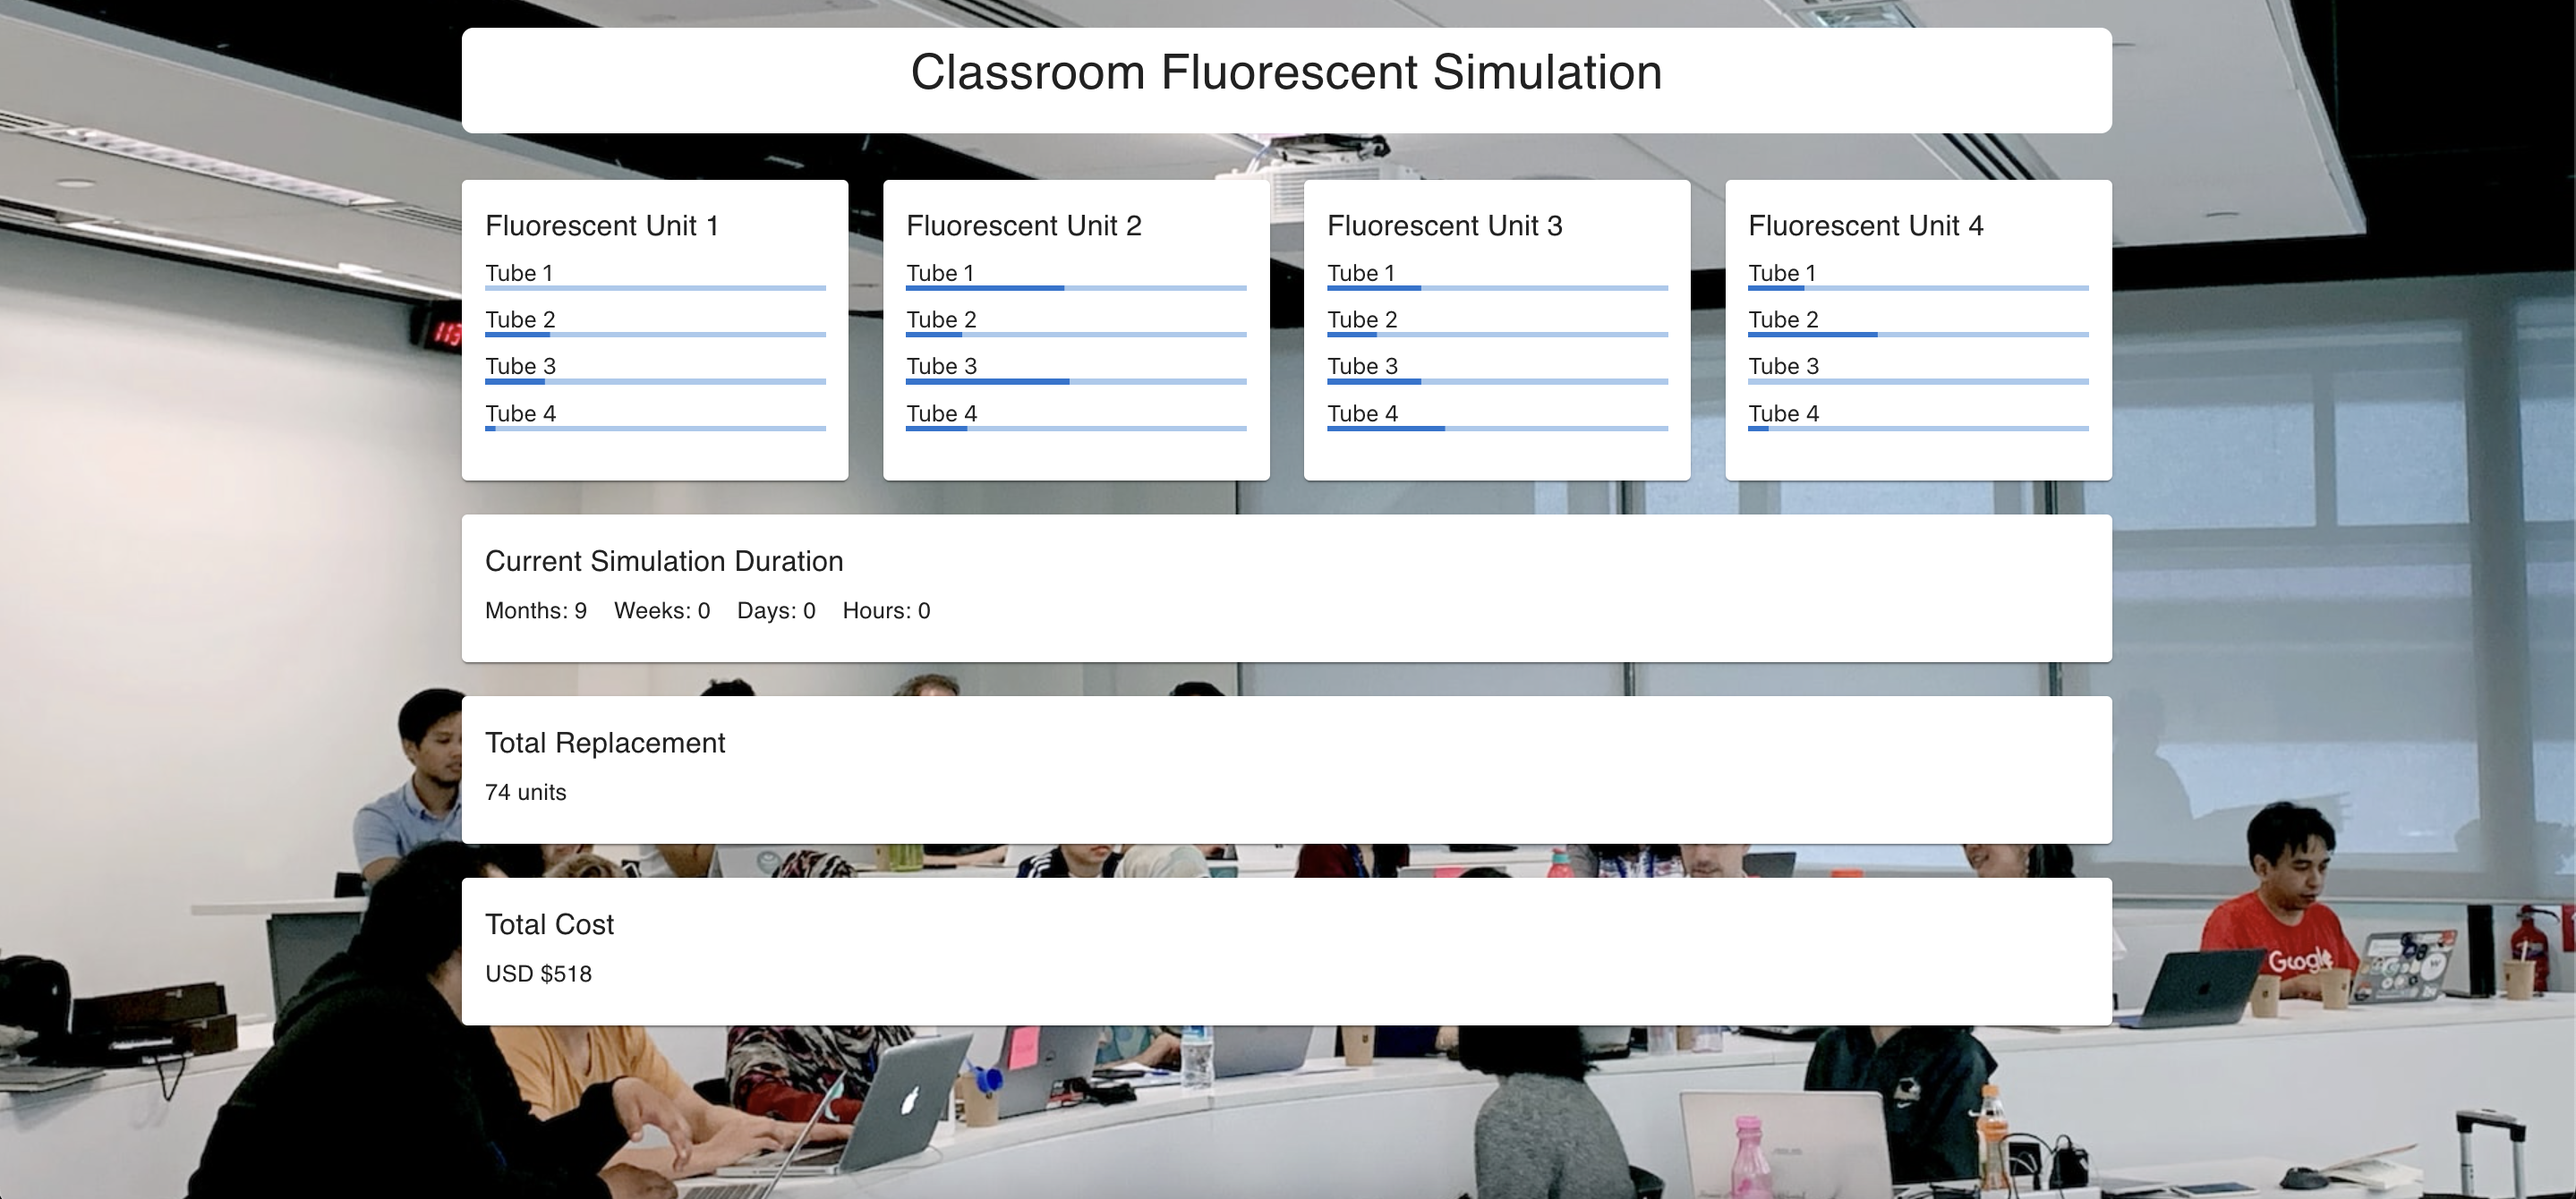
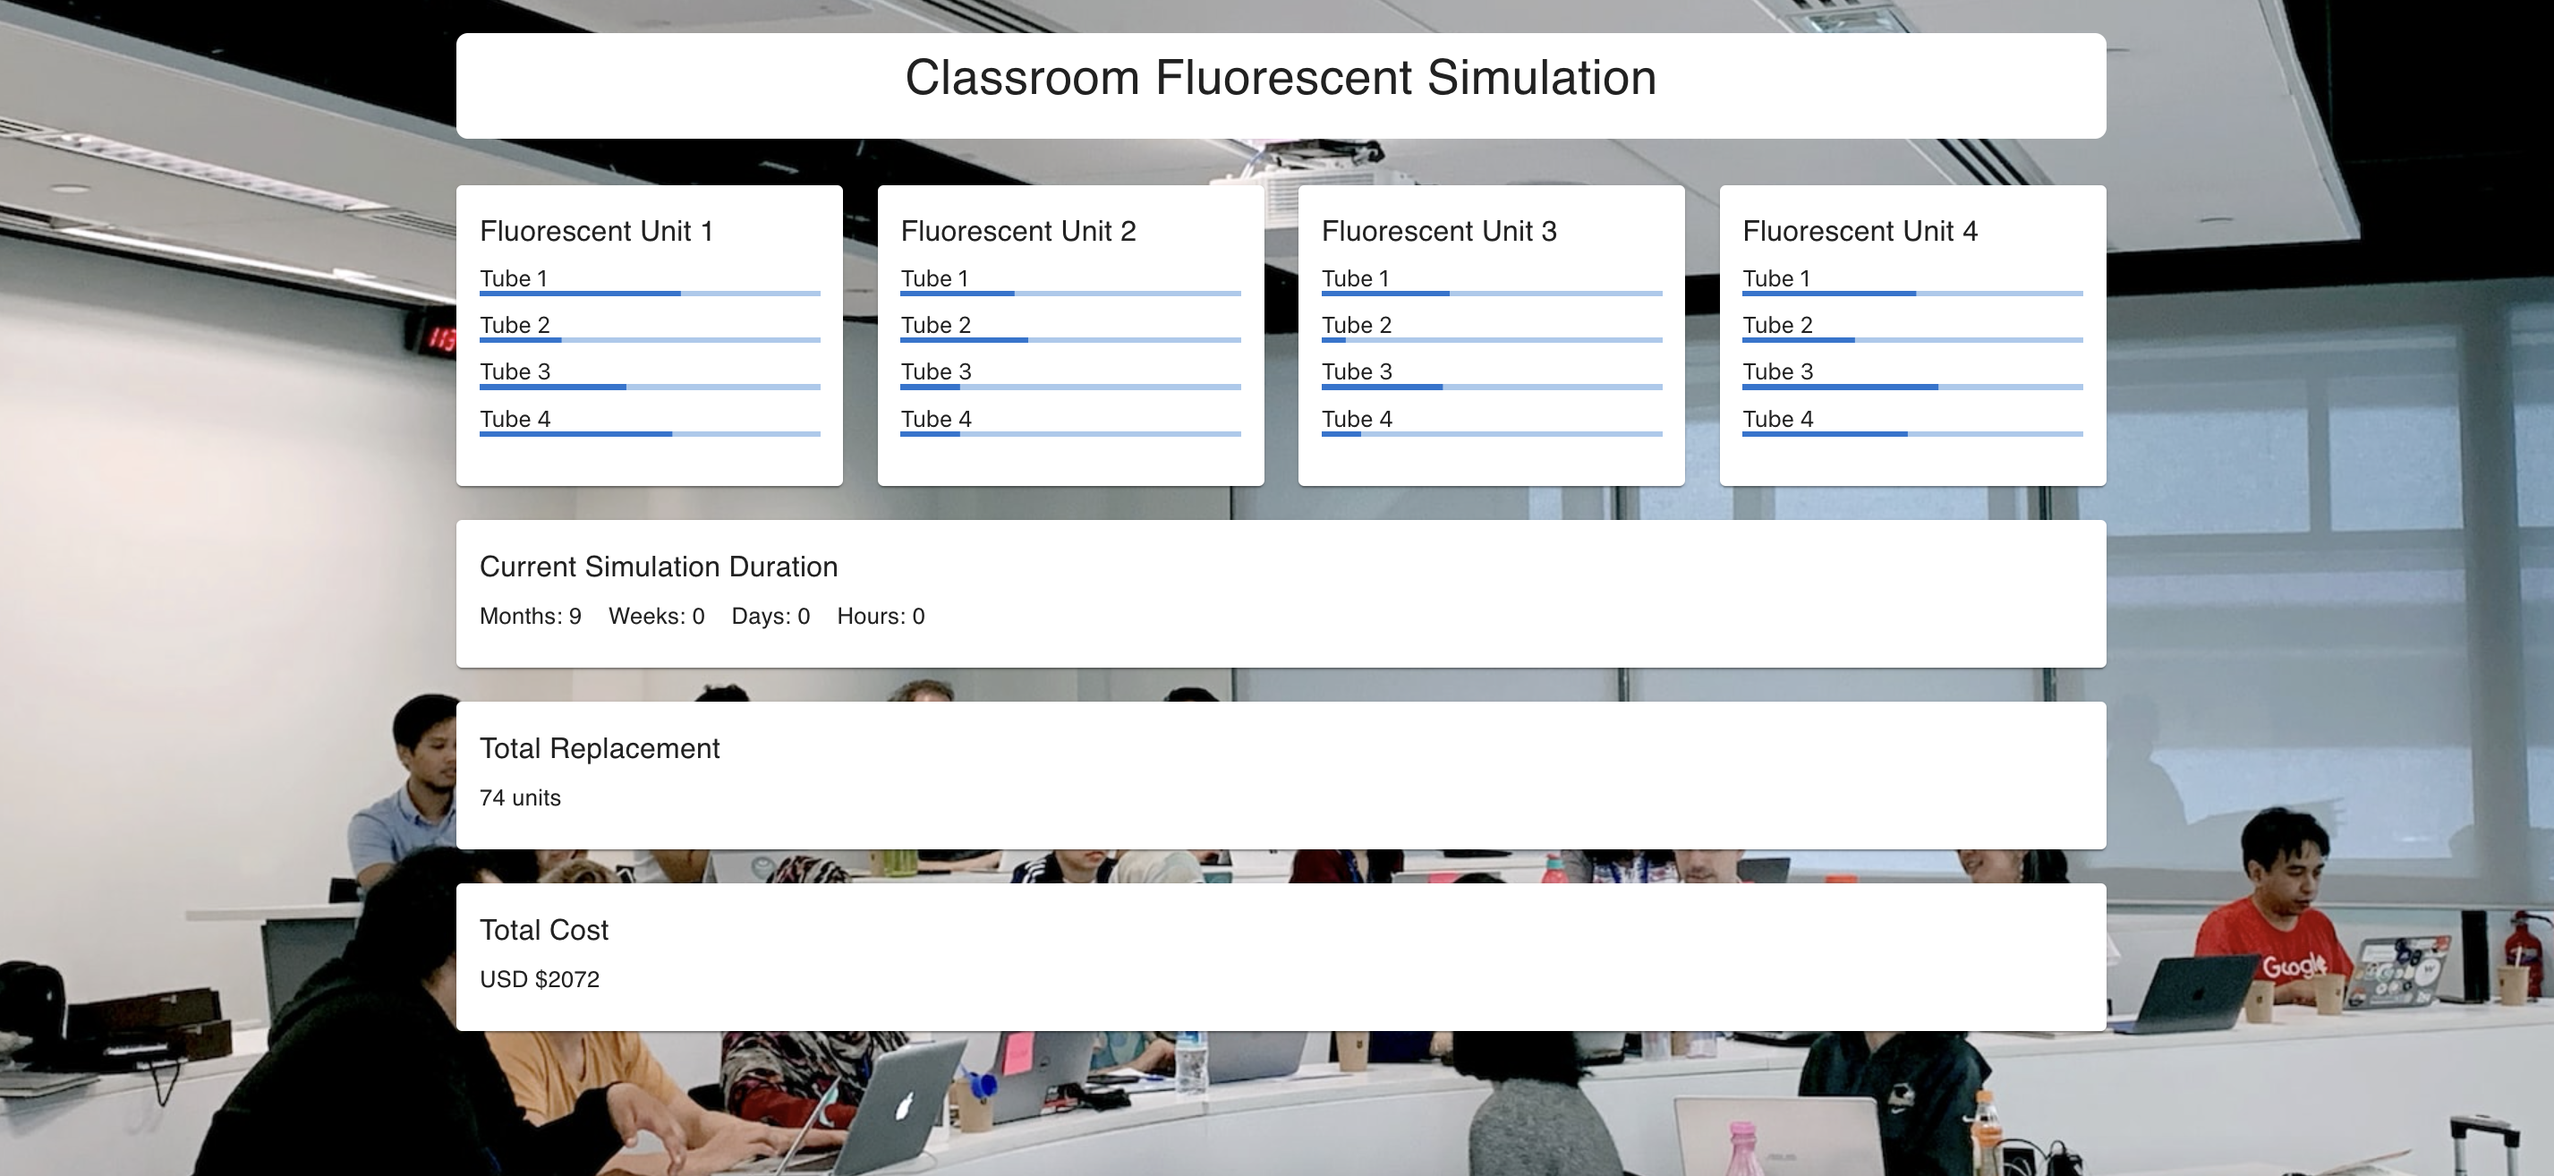
Update Cost

Changed region(s): [[0.0, 0.0, 1.0, 1.0], [0.8732, 0.0, 0.9043, 0.0936]]

diff --git a/backend/lib/classroom.rb b/backend/lib/classroom.rb
@@ -25,7 +25,7 @@ class Classroom
       if unit.needs_replacement?
         unit.replace_tubes
         @total_replacement += 1
-        @total_cost += FluorescentTubeUnit::REPLACEMENT_COST
+        @total_cost += FluorescentTubeUnit::REPLACEMENT_COST * FluorescentTubeUnit::TUBE_COUNT
       end
     }
   end
